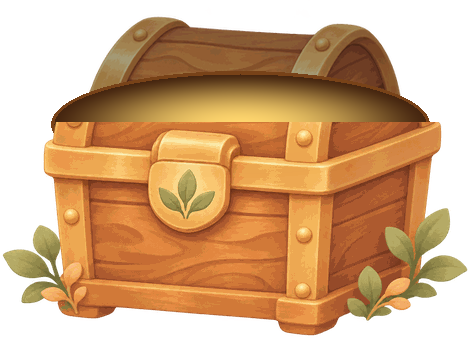
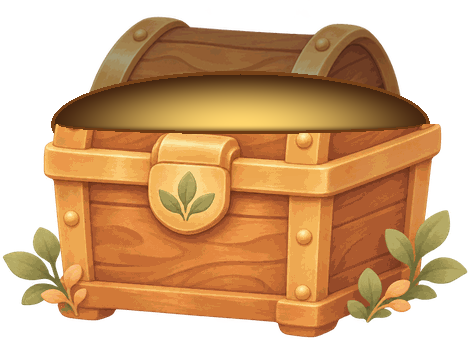
Fix open chest art: curved front lip instead of a flat slice
Claude-Session: https://claude.ai/code/session_01TxSmyg1pWiM7qiAwczVyZz

diff --git a/sw.js b/sw.js
@@ -1,5 +1,5 @@
 // Pocket Pet Focus service worker: offline app shell + cached fonts
-const CACHE = 'pocketpet-v11';
+const CACHE = 'pocketpet-v12';
 const SHELL = ['./', './index.html', './manifest.webmanifest', './icon-192.png', './icon-512.png', './privacy.html'];
 // art and fonts are cached on first use (fetch handler) so the first install stays small
 // art and fonts are cached on first use (fetch handler) so the first install stays small
